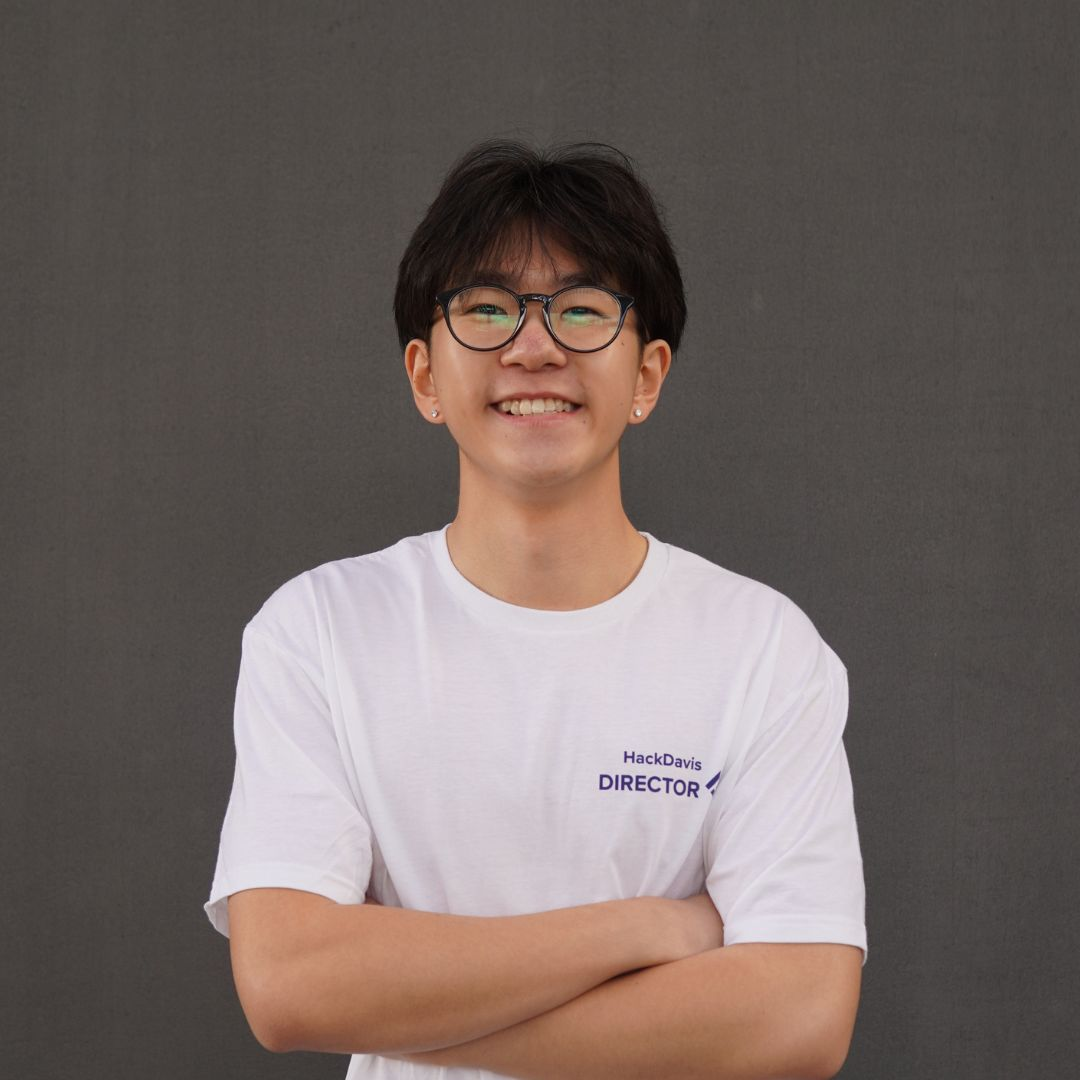
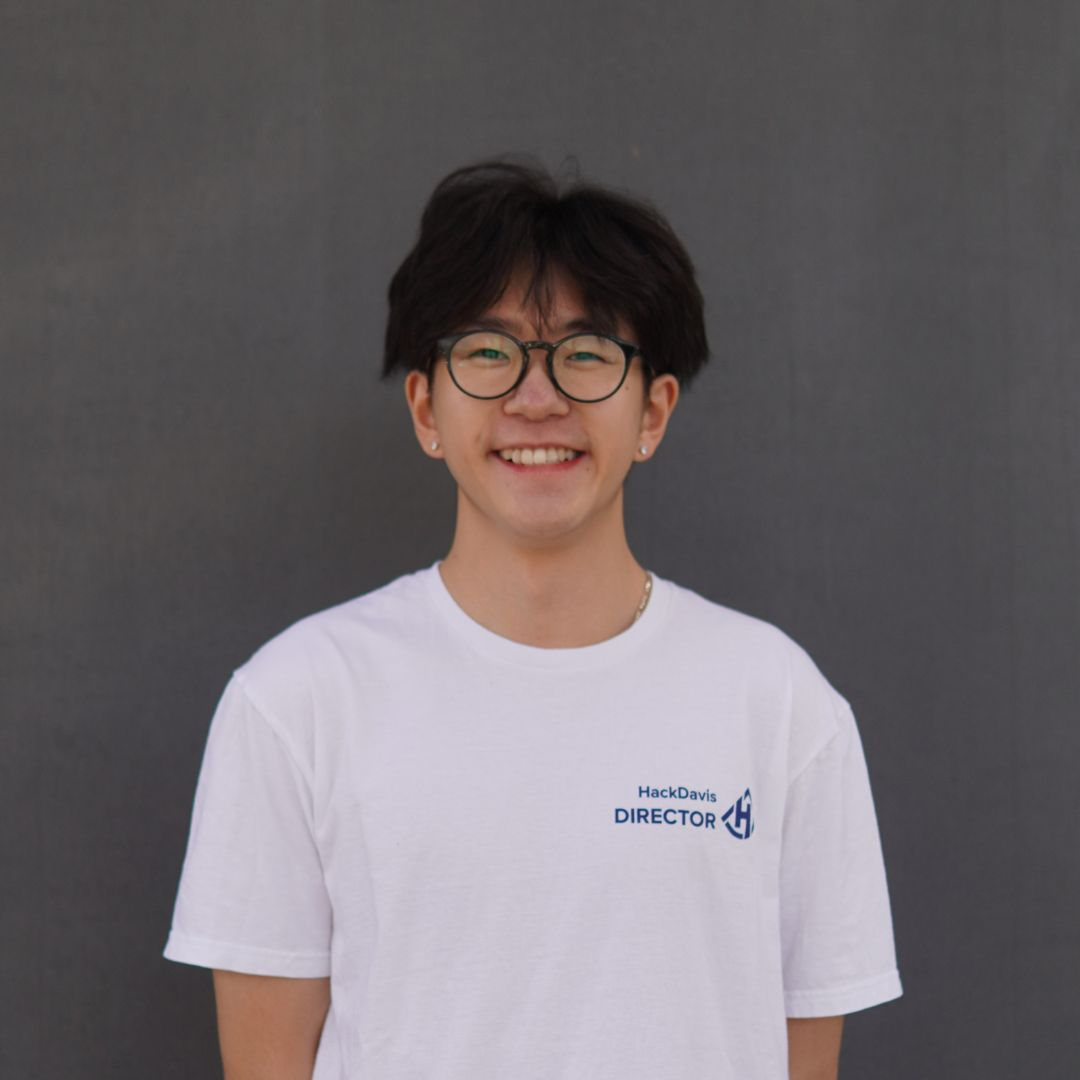
Fix/landing page edits (#82)
* Updated directors alongside director json linkedin links

* Fixed bunny and music note sizing for small phones

* Updated sizing of bunny & music notes for regular phone size

* Updated FAQ

* wave fix

* logo updates

---------

Changed region(s): [[0.1528, 0.1222, 0.8556, 1.0], [0.3667, 0.2139, 0.3972, 0.2444]]

diff --git a/app/(pages)/_components/Underwater/Underwater.module.scss b/app/(pages)/_components/Underwater/Underwater.module.scss
@@ -31,8 +31,6 @@
 
     .musicContainer {
         left: 0%;
-        // border: 3px solid black;
-        // padding-left: 10%;
         padding-right: 0%;
         padding-bottom: 55%;
         margin-right: -5%;
@@ -530,13 +528,18 @@
         .imagecontainer {
             z-index: 1;
             padding-top: 5%;
+            padding-right: 27%;
+            padding-left: 25%;
             display: flex;
             flex-direction: column;
     
             .bunny {
                 margin-top: -15%;
                 width: 100%;
-                padding: 0% 0% 35% 20%;
+                // padding: 0% 0% 35% 20%;
+                padding-right: 47%;
+                padding-left: 55%;
+                padding-bottom: 25%;
                 margin-left: 20%;
                 animation: bunnyBob 4s infinite alternate ease-in-out;
                 animation-delay: 0.0s;
@@ -572,8 +575,12 @@
         // do not edit, this is for the animations + formatting of the music notes
         .musicContainer {
             left: 0%;
+            margin-left: -15%;
+            margin-bottom: -5%;
+            width: 40%;
             padding-bottom: 0%;
-            padding-right: 10%;
+            padding-right: 20%;
+            padding-left: 10%;
             top: 0%;
             display: flex;
             align-items: flex;
@@ -582,26 +589,27 @@
 
             .note1 {
                 padding: 2%;
-                margin-bottom: 35%;
+                margin-bottom: 135%;
                 animation: float 4s infinite alternate ease-in-out;
                 animation-delay: 0s;
             }
 
             .note2 {
-                margin-top: 30%;
+                width: 70%;
+                margin-top: 100%;
                 animation: float 4s infinite alternate ease-in-out;
                 animation-delay: 0.5s;
             }
             
             .note3 {
                 margin-left: 5%;
-                margin-bottom: 37%;
+                margin-bottom: 7%;
                 animation: float 4s infinite alternate ease-in-out;
                 animation-delay: 1s;
             }
 
             .note4 {
-                margin-top: 50%;
+                margin-top: 250%;
                 animation: float 4s infinite alternate ease-in-out;
                 animation-delay: 1.5s;
             }
@@ -643,12 +651,16 @@
         .imagecontainer {
             z-index: 1;
             padding-top: 5%;
+            padding-right: 27%;
+            padding-left: 15%;
             display: flex;
             flex-direction: column;
     
             .bunny {
                 width: 100%;
-                padding: 5% 0% 0% 5%;
+                // padding: 0% 0% 35% 20%;
+                padding-right: 27%;
+                padding-left: 15%;
                 // margin-left: 10%;
                 animation: bunnyBob 4s infinite alternate ease-in-out;
                 animation-delay: 0.0s;
@@ -680,9 +692,12 @@
 
         // do not edit, this is for the animations + formatting of the music notes
         .musicContainer {
+            margin-bottom: -30%;
+            width: 37%;
             left: 0%;
             padding-bottom: 0%;
             padding-right: 10%;
+            padding-left: 10%;
             top: 0%;
             display: flex;
             align-items: flex;
@@ -691,20 +706,21 @@
 
             .note1 {
                 padding: 2%;
-                margin-bottom: 35%;
+                margin-bottom: 300%;
                 animation: float 4s infinite alternate ease-in-out;
                 animation-delay: 0s;
             }
 
             .note2 {
-                margin-top: 30%;
+                margin-bottom: 10%;
+                width: 70%;
                 animation: float 4s infinite alternate ease-in-out;
                 animation-delay: 0.5s;
             }
             
             .note3 {
                 margin-left: 5%;
-                margin-bottom: 37%;
+                margin-bottom: 187%;
                 animation: float 4s infinite alternate ease-in-out;
                 animation-delay: 1s;
             }

diff --git a/app/(pages)/(index-page)/_components/Sponsors/_components/Sponsors/SponsorsCarousel.tsx b/app/(pages)/(index-page)/_components/Sponsors/_components/Sponsors/SponsorsCarousel.tsx
@@ -6,39 +6,29 @@ import styles from './SponsorsCarousel.module.scss';
 import csDepartment from 'public/index/Sponsors/cs.png';
 import asucd from 'public/index/Sponsors/asucd.png';
 import anthropic from 'public/index/Sponsors/anthropic.png';
-// import ucDavis from 'public/index/Sponsors/ucDavis.png';
-// import whyNotBoba from 'public/index/Sponsors/whyNotBoba.webp';
+import ucDavis from 'public/index/Sponsors/ucDavis.png';
 
 // Row 2: tier 2 sponsors
 // import pepsi from 'public/index/Sponsors/pepsi.png';
 // import cfc from 'public/index/Sponsors/cfc.jpg';
-// import glico from 'public/index/Sponsors/Glico.png';
-// import guayaki from 'public/index/Sponsors/gym.png';
 // import ucdLS from 'public/index/Sponsors/ls.png';
-// import codeCrafters from 'public/index/Sponsors/codecrafters.png';
 import datalab from 'public/index/Sponsors/datalab.png';
 import cerebras from 'public/index/Sponsors/cerebras.png';
-// import nosu from 'public/index/Sponsors/nosu.png';
+import msba from 'public/index/Sponsors/MSBA.png';
 
 // Row 3: IPO Sponsors
-// import aggieHouse from 'public/index/Sponsors/IPOs/aggieHouseCow.png';
-// import lifeOfKai from 'public/index/Sponsors/IPOs/lifeOfKai.png';
-// import dcmh from 'public/index/Sponsors/IPOs/dcmh.png';
+import govops from 'public/index/Sponsors/IPOs/govops.png';
+import yolonami from 'public/index/Sponsors/IPOs/yoloNAMI.png';
 
 export default function SponsorsCarousel() {
   return (
     <div className={styles.container}>
       <Marquee iterations={2} duration={50}>
-        {/* <Logo
-          imgSrc={Intel}
-          url="https://www.intel.com/content/www/us/en/homepage.html"
-          alt="Intel Logo"
-        /> */}
-        {/* <Logo
+        <Logo
           imgSrc={ucDavis}
           url="https://www.ucdavis.edu"
           alt="UC Davis Logo"
-        /> */}
+        />
         <Logo
           imgSrc={csDepartment}
           url="https://cs.ucdavis.edu/"
@@ -63,56 +53,39 @@ export default function SponsorsCarousel() {
           url="https://datalab.ucdavis.edu/"
           alt="Datalab Logo"
         />
+        <Logo
+          imgSrc={msba}
+          url="https://gsm.ucdavis.edu/master-science-business-analytics-msba"
+          alt="MSBA Logo"
+        />
         {/* <Logo
           imgSrc={cfc}
           url="https://csi.ucdavis.edu/cfc/"
           alt="Club Financial Council Logo"
         />
-        <Logo imgSrc={glico} url="https://www.glico.com/us/" alt="Glico Logo" />
-        <Logo
-          imgSrc={guayaki}
-          url="https://guayaki.com/"
-          alt="Guayaki Yerba Mate Logo"
-        />
         <Logo
           imgSrc={ucdLS}
           url="https://lettersandscience.ucdavis.edu/"
           alt="UC Davis College of Letters & Science Logo"
-        />
-        <Logo
-          imgSrc={rhombus}
-          url="https://www.rhombus.com/"
-          alt="Rhombus logo"
-        />
-        <Logo
-          imgSrc={codeCrafters}
-          url="https://codecrafters.io/"
-          alt="CodeCrafters logo"
         /> */}
         <Logo
           imgSrc={cerebras}
           url="https://cerebras.ai/"
           alt="Cerebras Logo"
         />
-        {/* <Logo imgSrc={nosu} url="https://www.nosu.io/" alt="Nosu Logo" /> */}
       </Marquee>
 
       <Marquee iterations={2} duration={50}>
-        {/* <Logo
-          imgSrc={aggieHouse}
-          url="https://www.aggiehousedavis.org/"
-          alt="Aggie House Logo"
+        <Logo
+          imgSrc={govops}
+          url="https://www.govops.ca.gov/"
+          alt="California Government Operations Agency Logo"
         />
         <Logo
-          imgSrc={lifeOfKai}
-          url="https://www.thelifeofkai.org/"
-          alt="Life Of Kai Logo"
+          imgSrc={yolonami}
+          url="https://namiyolo.org/"
+          alt="NAMI Yolo Country Logo"
         />
-        <Logo
-          imgSrc={dcmh}
-          url="https://daviscommunitymeals.org/"
-          alt="Davis Community Meals & Housing Logo"
-        /> */}
       </Marquee>
     </div>
   );

diff --git a/app/(pages)/(index-page)/_components/FAQ/AccordionFAQ.tsx b/app/(pages)/(index-page)/_components/FAQ/AccordionFAQ.tsx
@@ -109,6 +109,10 @@ const AccordionFAQ = () => {
       question: 'How much does it cost?',
       answer: `Zero. Zip. Zilch. Nada. HackDavis is free for all admitted participants, so don't sweat it! We will provide you with WiFi, meals, caffeine, swag, and workspace for the entire weekend.`,
     },
+    {
+      question: 'Is travel reimbursement provided?',
+      answer: `Unfortunately, we are unable to offer travel reimbursement this year. Participants are responsible for covering their own travel costs.`,
+    },
   ];
 
   {

diff --git a/app/(pages)/(index-page)/_components/BigWave/BigWave.module.scss b/app/(pages)/(index-page)/_components/BigWave/BigWave.module.scss
@@ -268,7 +268,7 @@ $ducky-h: 397px;
 
 .bottom {
     bottom: $bottom-padding;
-    left: calc($bot-left-w * var(--scale) * 0.66);
+    left: calc($bot-left-w * var(--scale) * 0.665);
     height: calc($bot-h * var(--scale));
     width: calc(100% - $bot-left-w * var(--scale) * 0.66 - $bot-right-w * var(--scale));
 }
